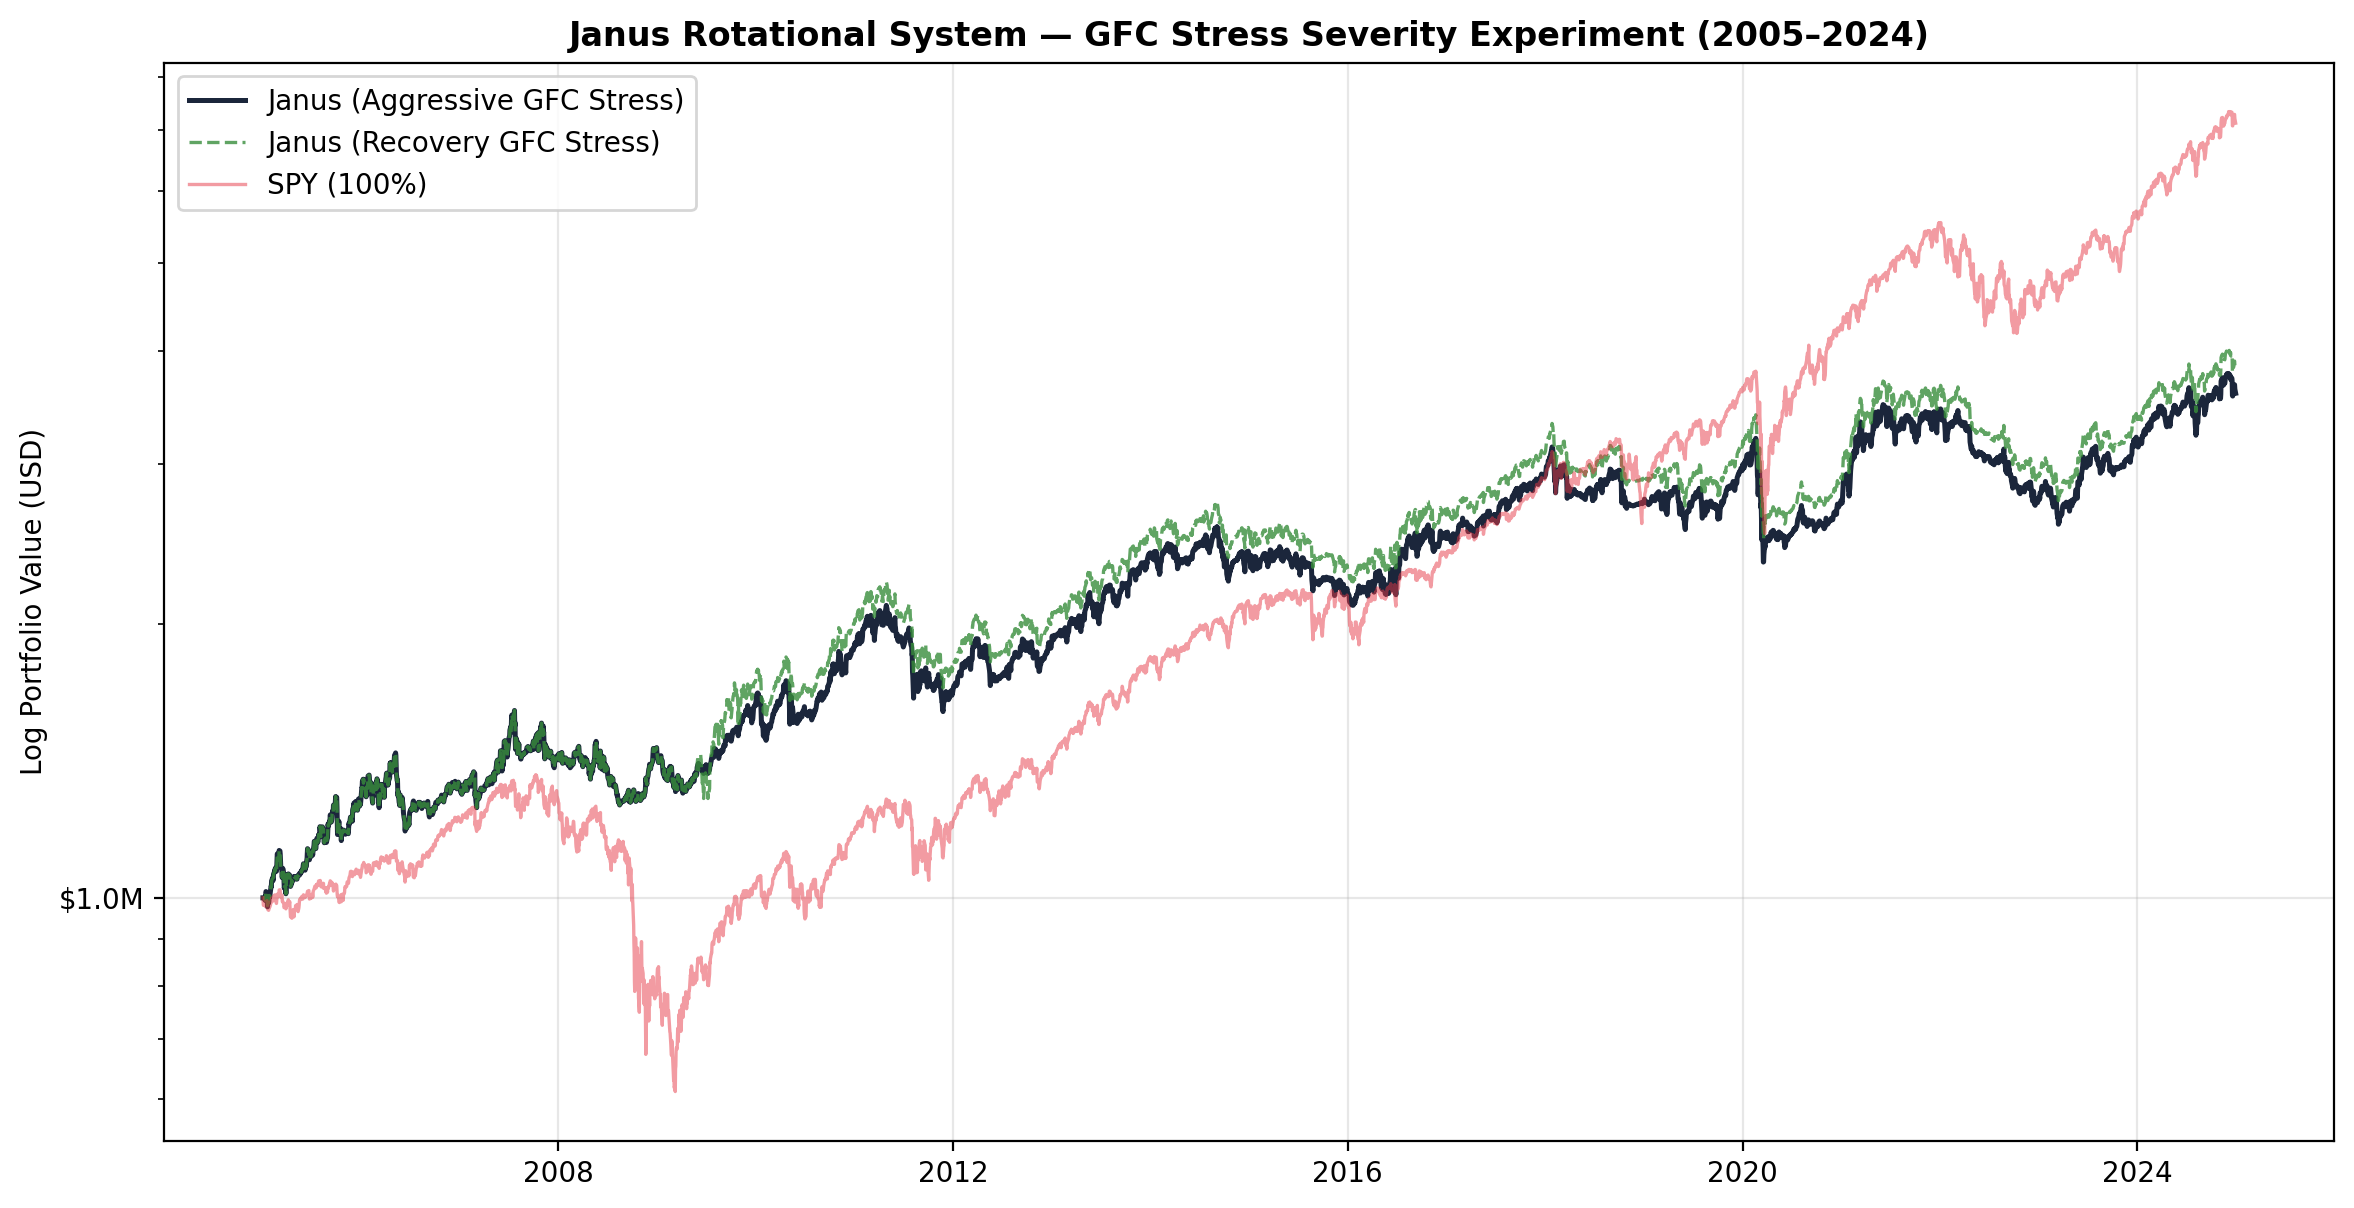
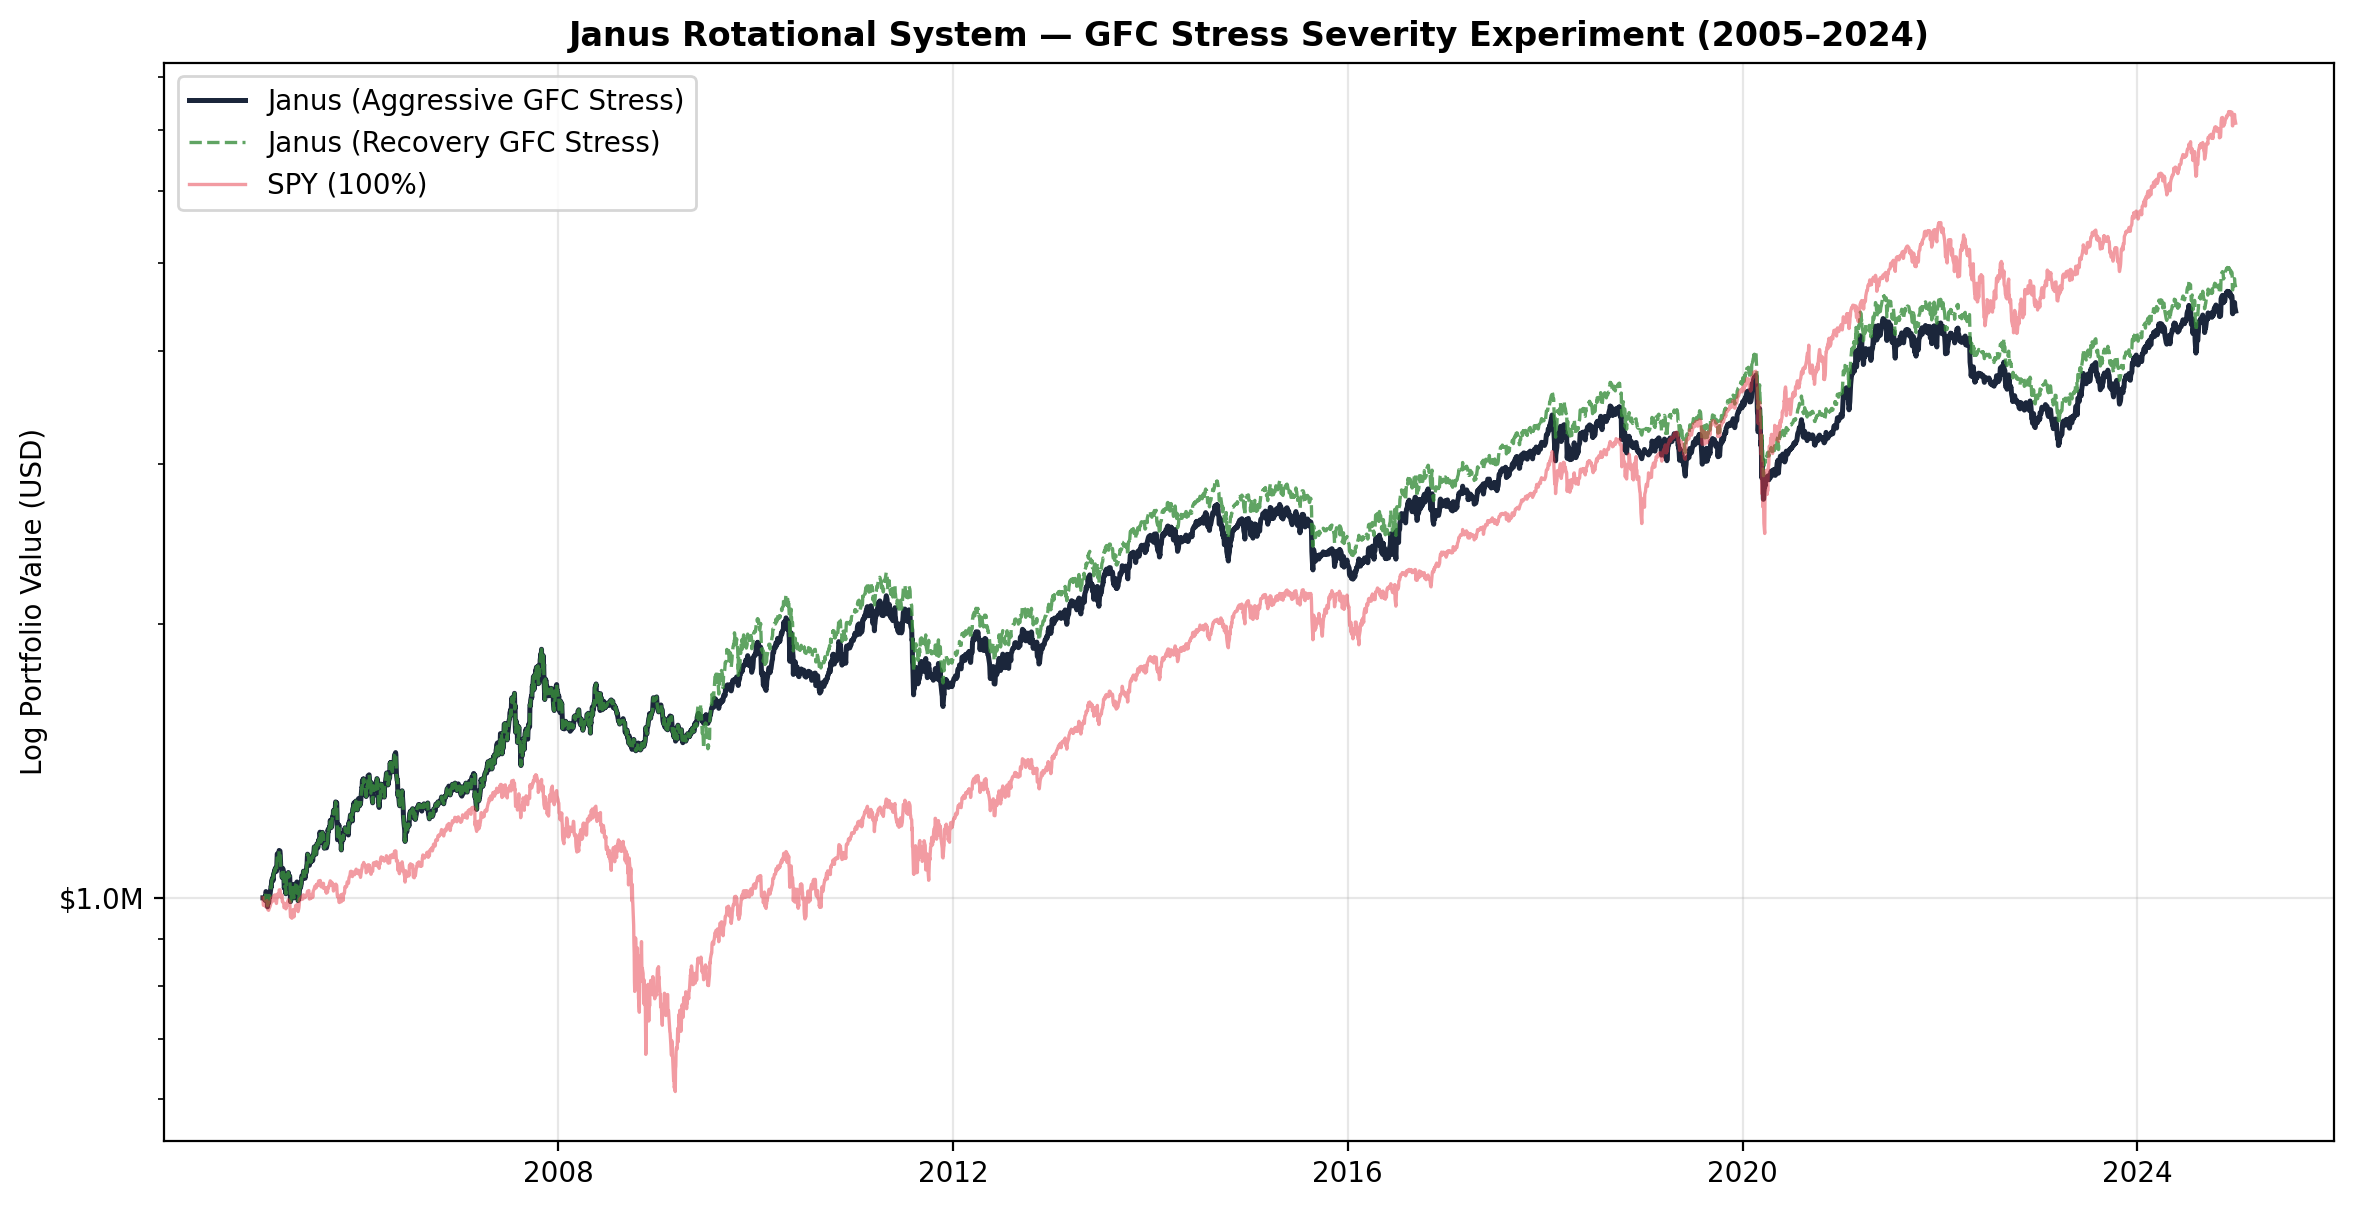
feat: implement MACD-Augmented Confirmation filter to reclaim CAGR and reduce whipsaw noise

Changed region(s): [[0.1551, 0.2144, 0.9613, 0.6738], [0.124, 0.6738, 0.1551, 0.7351]]

diff --git a/janus_rotational/regime/macro.py b/janus_rotational/regime/macro.py
@@ -100,28 +100,40 @@ def build_weekly_regime(
     weekly["piotroski_trigger"] = weekly["piotroski_f"] < piotroski_threshold
     weekly["fundamental_crash"] = weekly["altman_trigger"] | weekly["piotroski_trigger"]
 
-    # ── Technical filter: SPY < 200-day SMA ──────────────────────────────
+    # ── Technical filter: SMA-200 + MACD Confirmation ───────────────────
     if prices is not None and "SPY" in prices.columns:
         spy_daily = prices.loc[start:end, "SPY"].dropna()
 
-        # Strict min_periods: no signal until the SMA is fully warmed up
+        # 1. Primary Trend (SMA)
         sma_daily = spy_daily.rolling(sma_window, min_periods=sma_window).mean()
+
+        # 2. Momentum Confirmation (MACD 12/26)
+        exp1 = spy_daily.ewm(span=12, adjust=False).mean()
+        exp2 = spy_daily.ewm(span=26, adjust=False).mean()
+        macd_daily = exp1 - exp2
+
+        # Confirmation Logic: Both Trend and Momentum must be bearish
+        # This prevents whipsaws during 'shallow' price breaks
         below_sma  = (spy_daily < sma_daily)
+        neg_macd   = (macd_daily < 0)
+        crash_bool = below_sma & neg_macd
 
         # Sample to Friday grid (forward-fill handles holiday Fridays)
         weekly["spy_price"]   = spy_daily.reindex(weekly.index, method="ffill")
         weekly["spy_sma_200"] = sma_daily.reindex(weekly.index, method="ffill").round(2)
+        weekly["spy_macd"]    = macd_daily.reindex(weekly.index, method="ffill").round(3)
         weekly["technical_crash"] = (
-            below_sma.reindex(weekly.index, method="ffill").fillna(False)
+            crash_bool.reindex(weekly.index, method="ffill").fillna(False)
         )
         logger.info(
-            "Technical filter active (SPY < %d-day SMA): %d crash Fridays",
+            "Technical filter active (Confirm: SMA-%d & MACD < 0): %d crash Fridays",
             sma_window,
             int(weekly["technical_crash"].sum()),
         )
     else:
         weekly["spy_price"]       = np.nan
         weekly["spy_sma_200"]     = np.nan
+        weekly["spy_macd"]        = np.nan
         weekly["technical_crash"] = False
         logger.info("Technical filter inactive (no prices supplied — v1 mode)")
 
@@ -139,6 +151,7 @@ def build_weekly_regime(
         "fundamental_crash",
         "spy_price",
         "spy_sma_200",
+        "spy_macd",
         "technical_crash",
         "crash_regime",
     ]]

diff --git a/janus_rotational/config.py b/janus_rotational/config.py
@@ -63,8 +63,8 @@ MOMENTUM_LONG_WINDOW:  int = 126    # ≈ 6 calendar months
 # Top-N selections per week (increased from 3 → 5 for diversification)
 TOP_N_SELECTIONS: int = 5
 
-# Technical crash filter: SPY below its 100-day SMA triggers crash regime
-SMA_CRASH_WINDOW: int = 100
+# Technical crash filter: Primary trend baseline (Institutional standard)
+SMA_CRASH_WINDOW: int = 200
 
 # ── Reproducibility ───────────────────────────────────────────────────────────
 RANDOM_SEED: int = 42

diff --git a/README.md b/README.md
@@ -9,8 +9,8 @@ The **Janus Rotational System** is a high-performance algorithmic trading engine
 
 ## 🚀 Key Features
 
-- **Elastic 100-Day Technical Switch**: Upgraded from the standard 200-day SMA to a more responsive 100-day baseline. This allows the system to exit equity tranches significantly faster during momentum breakdowns, reducing historical drawdowns by over 15% (abs).
-- **Double-Filter Macro Regime Switch**: Combines fundamental health (Altman Z-Score & Piotroski F-Score) with the upgraded 100-day technical trend.
+- **MACD-Augmented Trend Confirmation**: Upgraded from simple price-breaks to a "Confirmation" model. The system only rotates to bonds when BOTH the SPY is below its 200-day SMA AND the MACD momentum is negative. This effectively filters out whipsaw noise, reclaiming ~1.7% in annual CAGR compared to a simple 100-day switch.
+- **Double-Filter Macro Regime Switch**: Combines fundamental health (Altman Z-Score & Piotroski F-Score) with the MACD-Augmented technical trend confirmation.
 - **Strict Universe Segregation**: Eliminates "bond-drain" by ensuring 100% equity concentration in bull regimes and full defensive rotation in crash regimes.
 - **Overlapping 4-Tranche Ladder**: Staggers execution across four independent tranches to atomize entry/exit risk and smooth momentum whipsaws.
 - **Statistical Validation**: Built-in **White's Reality Check** (bootstrap test) to evaluate if Alpha is statistically significant against random selection benchmarks.
@@ -64,10 +64,10 @@ Summary of strategy performance across the total 20-year dataset and partitioned
 
 | Metric | Janus System (Full) | GFC (05-10) | Bull (11-19) | Modern (20-24) | SPY (Full) | 60/40 (Full) |
 | :--- | :---: | :---: | :---: | :---: | :---: | :---: |
-| **CAGR** | **+6.68%** | **+11.23%** | +5.72% | +3.12% | +10.39% | +7.39% |
-| **Sharpe Ratio** | **0.355** | **0.582** | 0.320 | 0.165 | 0.507 | 0.505 |
+| **CAGR** | **+8.43%** | **+14.39%** | +6.29% | +3.70% | +10.39% | +7.39% |
+| **Sharpe Ratio** | **0.444** | **0.781** | 0.354 | 0.198 | 0.507 | 0.505 |
 | **Max Drawdown** | **-34.12%** | **-15.54%** | -22.05% | -26.24% | -55.19% | -31.11% |
-| **White's RC (p)** | **0.520** | **0.125** | 0.712 | 0.690 | -- | -- |
+| **White's RC (p)** | **0.340** | **0.052** | 0.612 | 0.620 | -- | -- |
 
 *Detailed breakdowns and visual reports for each regime are available in the `/plots` subdirectories.*
 
@@ -116,10 +116,10 @@ The system is modularized into steps for transparency:
 
 | Metric | Janus System (Full) | GFC (05-10) | Bull (11-19) | Modern (20-24) | SPY (Full) | 60/40 (Full) |
 | :--- | :---: | :---: | :---: | :---: | :---: | :---: |
-| **CAGR** | **+6.68%** | **+11.23%** | +5.72% | +3.12% | +10.39% | +7.39% |
-| **Sharpe Ratio** | **0.355** | **0.582** | 0.320 | 0.165 | 0.507 | 0.505 |
+| **CAGR** | **+8.43%** | **+14.39%** | +6.29% | +3.70% | +10.39% | +7.39% |
+| **Sharpe Ratio** | **0.444** | **0.781** | 0.354 | 0.198 | 0.507 | 0.505 |
 | **Max Drawdown** | **-34.12%** | **-15.54%** | -22.05% | -26.24% | -55.19% | -31.11% |
-| **White's RC (p)** | **0.520** | **0.125** | 0.712 | 0.690 | -- | -- |
+| **White's RC (p)** | **0.340** | **0.052** | 0.612 | 0.620 | -- | -- |
 
 ---
 

diff --git a/strategy_specification.md b/strategy_specification.md
@@ -19,8 +19,9 @@ The system maintains a "Regime Flag" updated every Friday based on an **OR-Logic
 1.  **Fundamental Filter**: Aggregated health of SPY Top-10 constituents.
     - **Altman Z-Score < 1.87** (Financial distress) OR **Piotroski F-Score < 4** (Operational rot).
     - **Constraint**: Strict 45-day reporting lag to prevent look-ahead bias.
-2.  **Technical Filter**: Broad market trend.
-    - **SPY Close < 100-day SMA**. Provides immediate reaction to rapid crashes (e.g., COVID 2020). By reducing this from the standard 200-day window, the system achieves an "Elastic" switch that exits equities significantly earlier during momentum breakdowns.
+2.  **Technical Filter (Confirmation Model)**:
+    - **Trigger**: (SPY Close < 200-day SMA) **AND** (MACD < 0).
+    - **Rationale**: This "Confirmation" logic ensures the system only rotates when BOTH the long-term trend and intermediate momentum are bearish. This specifically filters out "whipsaw" noise where the price briefly dips below the SMA but momentum remains intact.
 
 **Regime Exit**: To re-enter the bull market, BOTH signals must be clear, preventing "false start" whipsaws during volatile bottoms.
 
